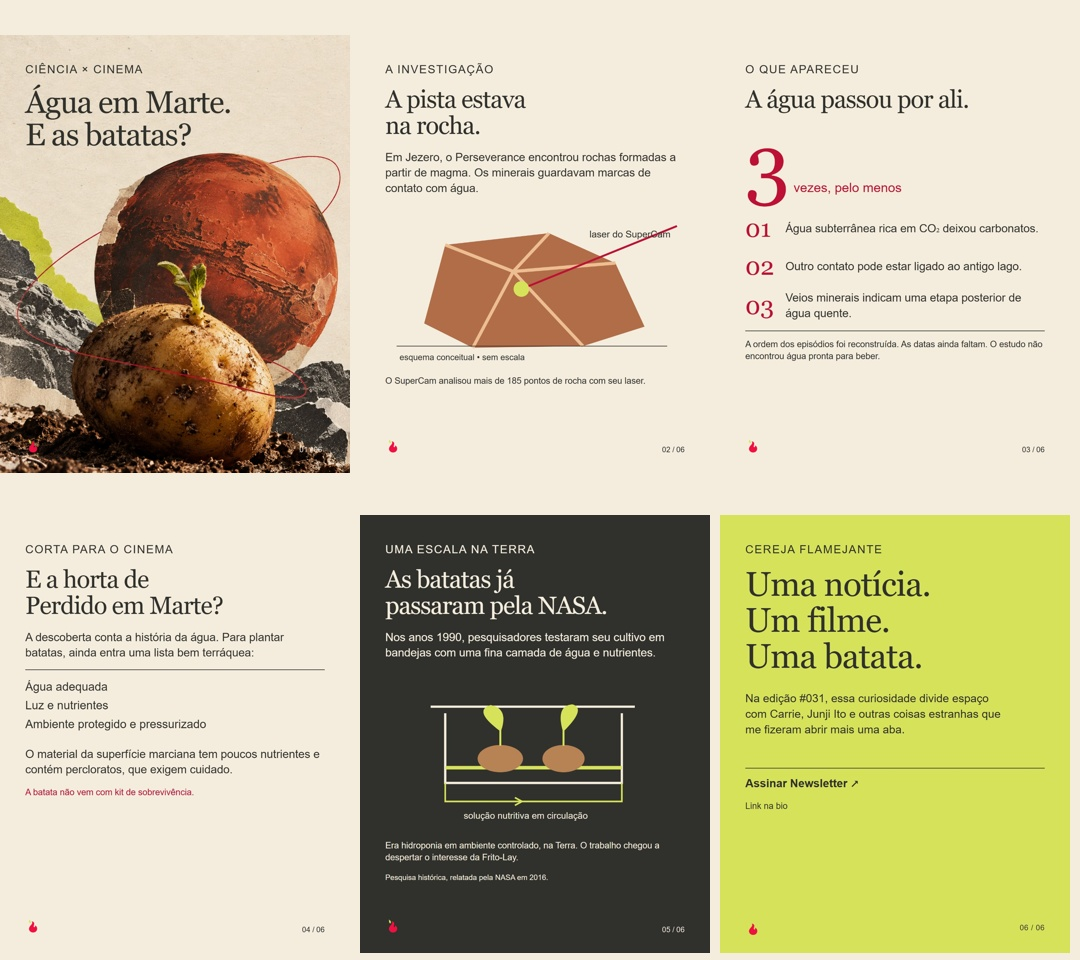
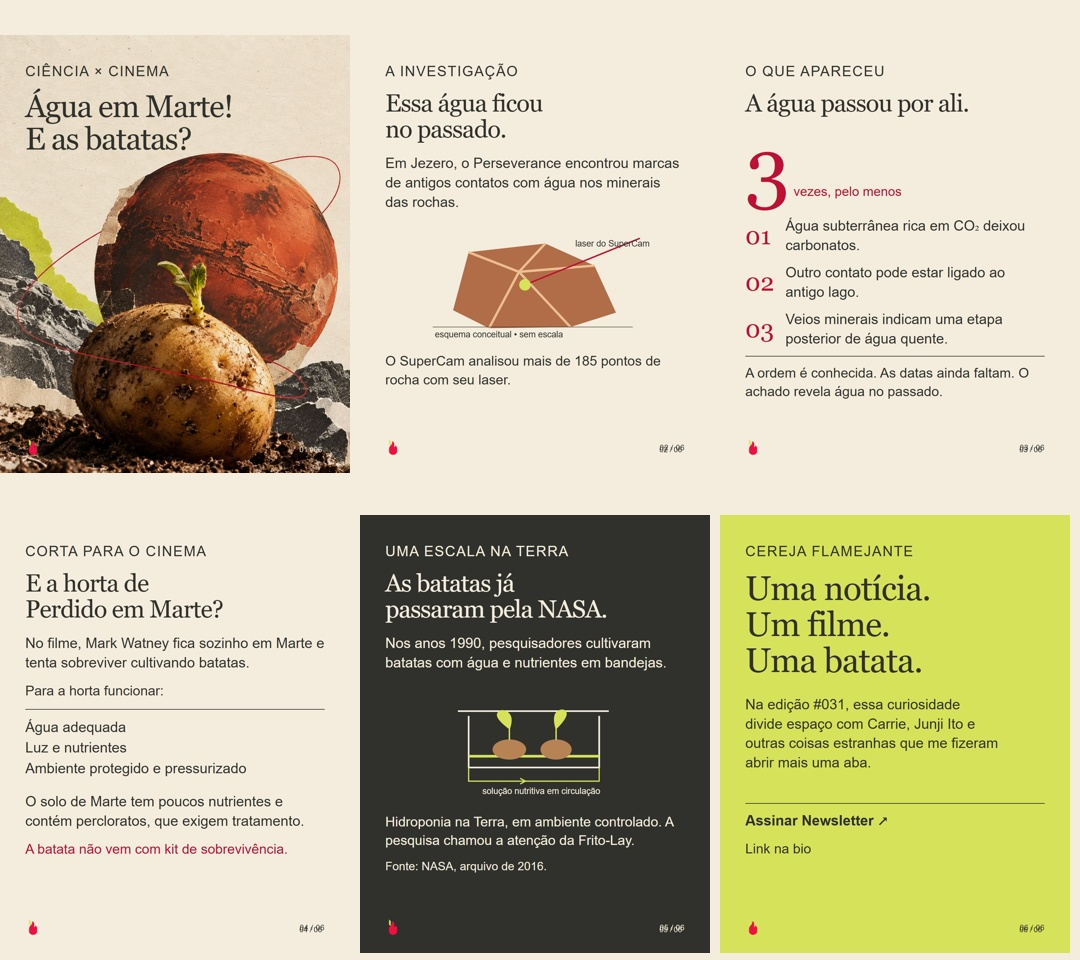
Improve mobile readability and add film context

diff --git a/growth/cycles/031-mars/index.html b/growth/cycles/031-mars/index.html
@@ -1,1 +1,1 @@
-<!doctype html><html lang="pt-BR"><meta charset="utf-8"><title>Cereja Flamejante · Marte e batatas</title><link rel="stylesheet" href="style.css"><main class="preview"><h1>Água em Marte. E as batatas?</h1><p>Experimento #031 · seis páginas em 1080 × 1350 · aguardando revisão de Kell.</p><p><a href="packet.md">Briefing, legenda, fontes e revisão</a> · <a href="alt-text.json">Textos alternativos</a></p><div class="grid"><a href="slide-01.png"><img src="slide-01.png" alt="Colagem em papel creme: uma batata brotando diante de Marte, com linha vermelha e recortes verdes. Texto: Água em Marte. E as batatas?"></a><a href="slide-02.png"><img src="slide-02.png" alt="A pista estava na rocha. O Perseverance encontrou em Jezero rochas formadas de magma com marcas de contato com água. Diagrama conceitual mostra o laser do SuperCam atingindo uma rocha. Mais de 185 pontos foram analisados."></a><a href="slide-03.png"><img src="slide-03.png" alt="A água passou por ali pelo menos três vezes: água subterrânea rica em CO2 deixou carbonatos; outro contato pode estar ligado ao antigo lago; veios minerais indicam água quente posterior. A ordem foi reconstruída, mas as datas faltam. Não é uma descoberta de água pronta para beber."></a><a href="slide-04.png"><img src="slide-04.png" alt="E a horta de Perdido em Marte? Plantar batatas exige água adequada, luz, nutrientes e ambiente protegido e pressurizado. O material da superfície de Marte tem poucos nutrientes e contém percloratos. A batata não vem com kit de sobrevivência."></a><a href="slide-05.png"><img src="slide-05.png" alt="As batatas já passaram pela NASA. Nos anos 1990, houve testes de hidroponia em ambiente controlado na Terra, usando bandejas com uma fina camada de água e nutrientes. Esquema mostra batatas e solução nutritiva circulando. O trabalho despertou interesse da Frito-Lay. Fonte histórica NASA, 2016."></a><a href="slide-06.png"><img src="slide-06.png" alt="Uma notícia. Um filme. Uma batata. Na edição 31 da Cereja Flamejante, essa curiosidade divide espaço com Carrie, Junji Ito e outras coisas estranhas que me fizeram abrir mais uma aba. Assinar Newsletter, link na bio."></a></div></main></html>
+<!doctype html><html lang="pt-BR"><meta charset="utf-8"><meta name="viewport" content="width=device-width, initial-scale=1"><title>Cereja Flamejante · Marte e batatas</title><link rel="stylesheet" href="style.css"><main class="preview"><h1>Água em Marte! E as batatas?</h1><p>Experimento #031 · seis páginas em 1080 × 1350 · aguardando revisão de Kell.</p><p><a href="packet.md">Briefing, legenda, fontes e revisão</a> · <a href="alt-text.json">Textos alternativos</a></p><div class="grid"><a href="slide-01.png"><img src="slide-01.png" alt="Colagem em papel creme: uma batata brotando diante de Marte, com linha vermelha e recortes verdes. Texto: Água em Marte! E as batatas?"></a><a href="slide-02.png"><img src="slide-02.png" alt="A pista estava na rocha. O Perseverance encontrou em Jezero rochas formadas de magma com marcas de contato com água. Diagrama conceitual mostra o laser do SuperCam atingindo uma rocha. Mais de 185 pontos foram analisados."></a><a href="slide-03.png"><img src="slide-03.png" alt="A água passou por ali pelo menos três vezes: água subterrânea rica em CO2 deixou carbonatos; outro contato pode estar ligado ao antigo lago; veios minerais indicam água quente posterior. A ordem foi reconstruída, mas as datas faltam. Não é uma descoberta de água pronta para beber."></a><a href="slide-04.png"><img src="slide-04.png" alt="E a horta de Perdido em Marte? Plantar batatas exige água adequada, luz, nutrientes e ambiente protegido e pressurizado. O material da superfície de Marte tem poucos nutrientes e contém percloratos. A batata não vem com kit de sobrevivência."></a><a href="slide-05.png"><img src="slide-05.png" alt="As batatas já passaram pela NASA. Nos anos 1990, houve testes de hidroponia em ambiente controlado na Terra, usando bandejas com uma fina camada de água e nutrientes. Esquema mostra batatas e solução nutritiva circulando. O trabalho despertou interesse da Frito-Lay. Fonte histórica NASA, 2016."></a><a href="slide-06.png"><img src="slide-06.png" alt="Uma notícia. Um filme. Uma batata. Na edição 31 da Cereja Flamejante, essa curiosidade divide espaço com Carrie, Junji Ito e outras coisas estranhas que me fizeram abrir mais uma aba. Assinar Newsletter, link na bio."></a></div></main></html>

diff --git a/growth/cycles/031-mars/style.css b/growth/cycles/031-mars/style.css
@@ -1,1 +1,2 @@
-*{box-sizing:border-box}body{margin:0;background:#f4edde;color:#30302d;font-family:Arial,sans-serif}.slide{width:1080px;height:1350px;position:relative;overflow:hidden;padding:82px 78px;background:#f4edde}.eyebrow{font-size:25px;letter-spacing:3px;text-transform:uppercase;margin:0 0 38px}.slide h1{font:normal 92px/1.04 Georgia,serif;letter-spacing:-3px;margin:0 0 36px}.slide h2{font:normal 76px/1.06 Georgia,serif;letter-spacing:-2px;margin:0 0 34px}.slide p{font-size:35px;line-height:1.36;margin:0 0 28px}.foot{position:absolute;bottom:48px;left:78px;right:78px;display:flex;align-items:center;justify-content:space-between;font-size:23px;letter-spacing:1px}.foot img{width:45px;height:59px;object-fit:contain}.cover{background:url(assets/mars-potato.png) center/cover}.cover h1{font-size:96px;max-width:850px}.small{font-size:27px!important}.cherry{color:#BE1035}.big{font:normal 250px/1 Georgia,serif;color:#BE1035}.line{border-top:2px solid #30302d;padding-top:22px}.row{display:flex;align-items:center;gap:34px;margin:30px 0}.num{font:normal 76px Georgia;color:#BE1035;min-width:90px}.row p{margin:0}.dark{background:#30302d;color:#f4edde}.dark .cherry{color:#D7E25B}.exit{background:#D7E25B}.exit h2{font-size:105px}.diagram{width:924px;height:460px;margin:25px 0 35px}.source{font-size:23px!important;line-height:1.35!important}.list{font-size:36px;line-height:1.6}.preview{max-width:1200px;margin:auto;padding:40px}.preview h1{font:48px Georgia}.grid{display:grid;grid-template-columns:repeat(2,1fr);gap:25px}.grid img{width:100%;height:auto}.preview a{color:#BE1035}.preview p{line-height:1.6}.preview code{word-break:break-all}
+*{box-sizing:border-box}body{margin:0;background:#f4edde;color:#30302d;font-family:Arial,sans-serif}.slide{width:1080px;height:1350px;position:relative;overflow:hidden;padding:82px 78px;background:#f4edde}.eyebrow{font-size:34px;letter-spacing:3px;text-transform:uppercase;margin:0 0 38px}.slide h1{font:normal 92px/1.04 Georgia,serif;letter-spacing:-3px;margin:0 0 36px}.slide h2{font:normal 76px/1.06 Georgia,serif;letter-spacing:-2px;margin:0 0 34px}.slide p{font-size:44px;line-height:1.36;margin:0 0 28px}.foot{position:absolute;bottom:48px;left:78px;right:78px;display:flex;align-items:center;justify-content:space-between;font-size:23px;letter-spacing:1px}.foot img{width:45px;height:59px;object-fit:contain}.cover{background:url(assets/mars-potato.png) center/cover}.cover h1{font-size:96px;max-width:850px}.small{font-size:42px!important}.cherry{color:#BE1035}.big{font:normal 250px/1 Georgia,serif;color:#BE1035}.line{border-top:2px solid #30302d;padding-top:22px}.row{display:flex;align-items:center;gap:34px;margin:24px 0}.num{font:normal 76px Georgia;color:#BE1035;min-width:90px}.row p{margin:0}.dark{background:#30302d;color:#f4edde}.dark .cherry{color:#D7E25B}.exit{background:#D7E25B}.exit h2{font-size:105px}.diagram{width:924px;height:340px;margin:25px 0 35px}.source{font-size:36px!important;line-height:1.35!important}.list{font-size:44px;line-height:1.45}.preview{max-width:1200px;margin:auto;padding:40px}.preview h1{font:48px Georgia}.grid{display:grid;grid-template-columns:repeat(2,1fr);gap:25px}.grid img{width:100%;height:auto}.preview a{color:#BE1035}.preview p{line-height:1.6}.preview code{word-break:break-all}
+@media(max-width:650px){.grid{grid-template-columns:1fr}.preview{padding:18px}}

diff --git a/growth/cycles/031-mars/slide-05.html b/growth/cycles/031-mars/slide-05.html
@@ -1,1 +1,1 @@
-<!doctype html><html lang="pt-BR"><meta charset="utf-8"><title>Marte e batatas · 5</title><link rel="stylesheet" href="style.css"><main class="slide dark"><p class="eyebrow">Uma escala na Terra</p><h2>As batatas já<br>passaram pela NASA.</h2><p>Nos anos 1990, pesquisadores testaram seu cultivo em bandejas com uma fina camada de água e nutrientes.</p><svg class="diagram" viewBox="0 0 924 460" role="img" aria-label="Esquema de bandejas com batatas e circulação de solução nutritiva"><path d="M140 90H770M185 110V325H730V110" fill="none" stroke="#f4edde" stroke-width="7"/><path d="M186 278H730" stroke="#D7E25B" stroke-width="11"/><ellipse cx="355" cy="250" rx="70" ry="42" fill="#b78355"/><ellipse cx="550" cy="250" rx="65" ry="42" fill="#b78355"/><path d="M355 210V140m0 22q-80-60-30-74q52 9 30 74m195 48V140m0 22q65-65 28-76q-48 2-28 76" fill="#D7E25B" stroke="#D7E25B" stroke-width="6"/><path d="M730 325V382H185V325" fill="none" stroke="#D7E25B" stroke-width="5"/><path d="m400 370 22 12-22 12" stroke="#D7E25B" fill="none" stroke-width="5"/><text x="242" y="435" font-size="28" fill="#f4edde">solução nutritiva em circulação</text></svg><p class="small">Era hidroponia em ambiente controlado, na Terra. O trabalho chegou a despertar o interesse da Frito-Lay.</p><p class="source">Pesquisa histórica, relatada pela NASA em 2016.</p><footer class="foot"><img src="assets/flame.png" alt="Cereja Flamejante"><span>05 / 06</span></footer></main></html>
+<!doctype html><html lang="pt-BR"><meta charset="utf-8"><title>Marte e batatas · 5</title><link rel="stylesheet" href="style.css"><main class="slide dark"><p class="eyebrow">Uma escala na Terra</p><h2>As batatas já<br>passaram pela NASA.</h2><p>Nos anos 1990, pesquisadores cultivaram batatas com água e nutrientes em bandejas.</p><svg class="diagram" viewBox="0 0 924 460" role="img" aria-label="Esquema de bandejas com batatas e circulação de solução nutritiva"><path d="M140 90H770M185 110V325H730V110" fill="none" stroke="#f4edde" stroke-width="7"/><path d="M186 278H730" stroke="#D7E25B" stroke-width="11"/><ellipse cx="355" cy="250" rx="70" ry="42" fill="#b78355"/><ellipse cx="550" cy="250" rx="65" ry="42" fill="#b78355"/><path d="M355 210V140m0 22q-80-60-30-74q52 9 30 74m195 48V140m0 22q65-65 28-76q-48 2-28 76" fill="#D7E25B" stroke="#D7E25B" stroke-width="6"/><path d="M730 325V382H185V325" fill="none" stroke="#D7E25B" stroke-width="5"/><path d="m400 370 22 12-22 12" stroke="#D7E25B" fill="none" stroke-width="5"/><text x="242" y="435" font-size="36" fill="#f4edde">solução nutritiva em circulação</text></svg><p class="small">Hidroponia na Terra, em ambiente controlado. A pesquisa chamou a atenção da Frito-Lay.</p><p class="source">Fonte: NASA, arquivo de 2016.</p><footer class="foot"><img src="assets/flame.png" alt="Cereja Flamejante"><span>05 / 06</span></footer></main></html>

diff --git a/growth/cycles/031-mars/slide-02.html b/growth/cycles/031-mars/slide-02.html
@@ -1,1 +1,1 @@
-<!doctype html><html lang="pt-BR"><meta charset="utf-8"><title>Marte e batatas · 2</title><link rel="stylesheet" href="style.css"><main class="slide "><p class="eyebrow">A investigação</p><h2>A pista estava<br>na rocha.</h2><p>Em Jezero, o Perseverance encontrou rochas formadas a partir de magma. Os minerais guardavam marcas de contato com água.</p><svg class="diagram" viewBox="0 0 924 460" role="img" aria-label="Diagrama conceitual de um laser analisando minerais numa rocha"><path d="M120 340 185 98 505 62 710 154 800 350 610 410 270 415Z" fill="#b16c48"/><path d="M185 98 395 180 270 415M505 62 395 180 610 410M395 180 710 154" fill="none" stroke="#edbe92" stroke-width="10"/><path d="M900 40 420 234" stroke="#BE1035" stroke-width="6"/><circle cx="420" cy="234" r="24" fill="#D7E25B"/><path d="M35 410H870" stroke="#30302d" stroke-width="2"/><text x="630" y="75" font-size="29" fill="#30302d">laser do SuperCam</text><text x="44" y="453" font-size="26" fill="#30302d">esquema conceitual • sem escala</text></svg><p class="small">O SuperCam analisou mais de 185 pontos de rocha com seu laser.</p><footer class="foot"><img src="assets/flame.png" alt="Cereja Flamejante"><span>02 / 06</span></footer></main></html>
+<!doctype html><html lang="pt-BR"><meta charset="utf-8"><title>Marte e batatas · 2</title><link rel="stylesheet" href="style.css"><main class="slide "><p class="eyebrow">A investigação</p><h2>Essa água ficou<br>no passado.</h2><p>Em Jezero, o Perseverance encontrou marcas de antigos contatos com água nos minerais das rochas.</p><svg class="diagram" viewBox="0 0 924 460" role="img" aria-label="Diagrama conceitual de um laser analisando minerais numa rocha"><path d="M120 340 185 98 505 62 710 154 800 350 610 410 270 415Z" fill="#b16c48"/><path d="M185 98 395 180 270 415M505 62 395 180 610 410M395 180 710 154" fill="none" stroke="#edbe92" stroke-width="10"/><path d="M900 40 420 234" stroke="#BE1035" stroke-width="6"/><circle cx="420" cy="234" r="24" fill="#D7E25B"/><path d="M35 410H870" stroke="#30302d" stroke-width="2"/><text x="630" y="75" font-size="36" fill="#30302d">laser do SuperCam</text><text x="44" y="453" font-size="36" fill="#30302d">esquema conceitual • sem escala</text></svg><p class="small">O SuperCam analisou mais de 185 pontos de rocha com seu laser.</p><footer class="foot"><img src="assets/flame.png" alt="Cereja Flamejante"><span>02 / 06</span></footer></main></html>

diff --git a/growth/cycles/031-mars/slide-03.html b/growth/cycles/031-mars/slide-03.html
@@ -1,1 +1,1 @@
-<!doctype html><html lang="pt-BR"><meta charset="utf-8"><title>Marte e batatas · 3</title><link rel="stylesheet" href="style.css"><main class="slide "><p class="eyebrow">O que apareceu</p><h2>A água passou por ali.</h2><div class="big">3<span style="font:40px Arial"> vezes, pelo menos</span></div><div class="row"><span class="num">01</span><p>Água subterrânea rica em CO₂ deixou carbonatos.</p></div><div class="row"><span class="num">02</span><p>Outro contato pode estar ligado ao antigo lago.</p></div><div class="row"><span class="num">03</span><p>Veios minerais indicam uma etapa posterior de água quente.</p></div><p class="small line">A ordem dos episódios foi reconstruída. As datas ainda faltam. O estudo não encontrou água pronta para beber.</p><footer class="foot"><img src="assets/flame.png" alt="Cereja Flamejante"><span>03 / 06</span></footer></main></html>
+<!doctype html><html lang="pt-BR"><meta charset="utf-8"><title>Marte e batatas · 3</title><link rel="stylesheet" href="style.css"><main class="slide "><p class="eyebrow">O que apareceu</p><h2>A água passou por ali.</h2><div class="big">3<span style="font:40px Arial"> vezes, pelo menos</span></div><div class="row"><span class="num">01</span><p>Água subterrânea rica em CO₂ deixou carbonatos.</p></div><div class="row"><span class="num">02</span><p>Outro contato pode estar ligado ao antigo lago.</p></div><div class="row"><span class="num">03</span><p>Veios minerais indicam uma etapa posterior de água quente.</p></div><p class="small line">A ordem é conhecida. As datas ainda faltam. O achado revela água no passado.</p><footer class="foot"><img src="assets/flame.png" alt="Cereja Flamejante"><span>03 / 06</span></footer></main></html>

diff --git a/growth/cycles/031-mars/slide-04.html b/growth/cycles/031-mars/slide-04.html
@@ -1,1 +1,1 @@
-<!doctype html><html lang="pt-BR"><meta charset="utf-8"><title>Marte e batatas · 4</title><link rel="stylesheet" href="style.css"><main class="slide "><p class="eyebrow">Corta para o cinema</p><h2>E a horta de<br>Perdido em Marte?</h2><p>A descoberta conta a história da água. Para plantar batatas, ainda entra uma lista bem terráquea:</p><div class="list line">Água adequada<br>Luz e nutrientes<br>Ambiente protegido e pressurizado</div><p style="margin-top:40px">O material da superfície marciana tem poucos nutrientes e contém percloratos, que exigem cuidado.</p><p class="small cherry">A batata não vem com kit de sobrevivência.</p><footer class="foot"><img src="assets/flame.png" alt="Cereja Flamejante"><span>04 / 06</span></footer></main></html>
+<!doctype html><html lang="pt-BR"><meta charset="utf-8"><title>Marte e batatas · 4</title><link rel="stylesheet" href="style.css"><main class="slide "><p class="eyebrow">Corta para o cinema</p><h2>E a horta de<br>Perdido em Marte?</h2><p>No filme, Mark Watney fica sozinho em Marte e tenta sobreviver cultivando batatas.</p><p class="small">Para a horta funcionar:</p><div class="list line">Água adequada<br>Luz e nutrientes<br>Ambiente protegido e pressurizado</div><p style="margin-top:40px">O solo de Marte tem poucos nutrientes e contém percloratos, que exigem tratamento.</p><p class="small cherry">A batata não vem com kit de sobrevivência.</p><footer class="foot"><img src="assets/flame.png" alt="Cereja Flamejante"><span>04 / 06</span></footer></main></html>

diff --git a/growth/cycles/031-mars/slide-01.html b/growth/cycles/031-mars/slide-01.html
@@ -1,1 +1,1 @@
-<!doctype html><html lang="pt-BR"><meta charset="utf-8"><title>Marte e batatas · 1</title><link rel="stylesheet" href="style.css"><main class="slide cover"><p class="eyebrow">Ciência × cinema</p><h1>Água em Marte.<br>E as batatas?</h1><footer class="foot"><img src="assets/flame.png" alt="Cereja Flamejante"><span>01 / 06</span></footer></main></html>
+<!doctype html><html lang="pt-BR"><meta charset="utf-8"><title>Marte e batatas · 1</title><link rel="stylesheet" href="style.css"><main class="slide cover"><p class="eyebrow">Ciência × cinema</p><h1>Água em Marte!<br>E as batatas?</h1><footer class="foot"><img src="assets/flame.png" alt="Cereja Flamejante"><span>01 / 06</span></footer></main></html>

diff --git a/growth/cycles/031-mars/packet.md b/growth/cycles/031-mars/packet.md
@@ -61,3 +61,8 @@ Registrar timestamp real e captar alcance, alcance de não seguidores, envios, c
 Kell revisa arte, reação pessoal na legenda, ciência, CTA e destino da bio. Depois disso é possível preparar publicação. Não publicar nem agendar com este pacote ainda pendente.
 
 Exportação: captura de conteúdo no navegador; rodapés das páginas 1–5 compostos a partir do ativo oficial e das coordenadas do HTML após limite de captura do navegador. Nenhum conteúdo cortado.
+
+## Revisão de legibilidade e abertura
+Capa: Água em Marte! E as batatas? Segundo slide esclarece que essa água ficou no passado. A formulação não afirma água líquida atualmente acessível. Textos principais passaram de 35 para 44 px; apoios de 27 para 42 px; fontes e rótulos de 23–29 para 36 px. Conteúdo cabe antes do rodapé, último bloco entre 1032 e 1128 px nas páginas internas. Em largura de 390 px, corpo equivale a aproximadamente 16 px e apoio a 15 px. Nova aprovação humana pendente.
+
+Contexto do filme incluído na página 4. Fonte oficial: https://www.20thcenturystudios.com/movies/the-martian . Imagens do filme: pendentes de autorização específica; nenhuma reprodução inserida.
